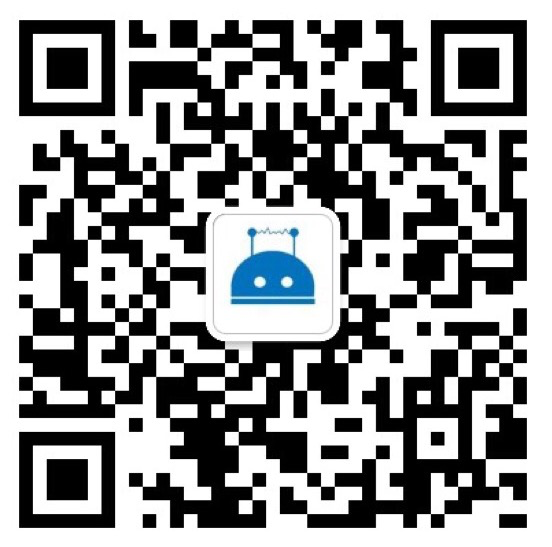
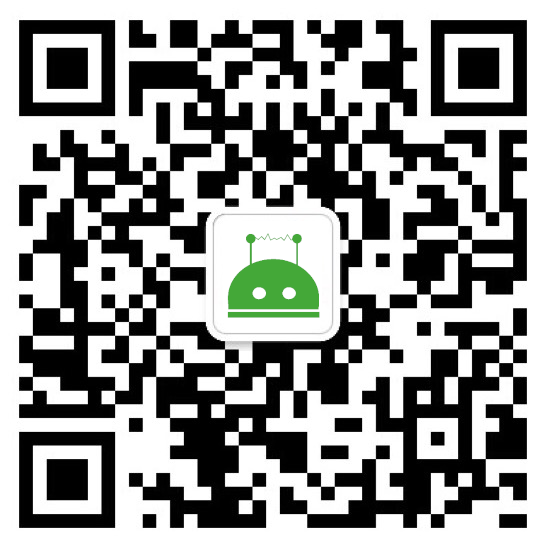
ci from blue to green

Changed region(s): [[0.4004, 0.404, 0.5851, 0.5905]]

diff --git a/README.md b/README.md
@@ -1,6 +1,6 @@
 # Wechaty [![NPM Version](https://badge.fury.io/js/wechaty.svg)](https://www.npmjs.com/package/wechaty) [![NPM](https://github.com/wechaty/wechaty/workflows/NPM/badge.svg)](https://github.com/wechaty/wechaty/actions?query=workflow%3ANPM) [![Docker](https://github.com/wechaty/wechaty/workflows/Docker/badge.svg)](https://github.com/wechaty/wechaty/actions?query=workflow%3ADocker)
 
-[![Wechaty](https://wechaty.github.io/wechaty/images/wechaty-logo-en.png)](https://github.com/wechaty/wechaty)
+[![Wechaty](https://wechaty.github.io/wechaty/images/wechaty-logo-green-en.png)](https://github.com/wechaty/wechaty)
 
 [![Downloads](https://img.shields.io/npm/dm/wechaty.svg?style=flat-square)](https://www.npmjs.com/package/wechaty)
 [![GitHub stars](https://img.shields.io/github/stars/wechaty/wechaty.svg?label=github%20stars)](https://github.com/wechaty/wechaty)
